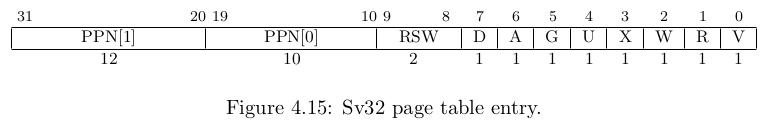
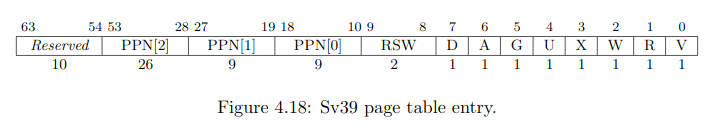
Minor fixes after reading up to page tables in RISC-V

Changed region(s): [[0.0, 0.0606, 0.9874, 0.5152], [0.2777, 0.7273, 0.7097, 0.9091], [0.864, 0.0909, 0.9257, 0.1212]]

diff --git a/README.md b/README.md
@@ -90,7 +90,7 @@ In een toekomstige sessie gaan we in detail bekijken waarom deze pagina daar gem
 Vandaag zijn we echter nog niet geinteresseerd in *wat* de trampolinepagina doet, wel in *hoe* de trampolinepagina gemapt wordt.
 
 Neem aan dat:
-1. De trampolinepagina in het geheugen gemapt staat in de frame met nummer 1234 (`PPN` = 1234).
+1. De trampolinepagina in het geheugen staat in het frame met nummer 1234 (`PPN` = 1234).
 2. Het virtuele adres `MAXVA-PGSIZE` (0x3ffffff000) moet verwijzen naar de eerste byte van deze trampolinepagina.
    
 Je moet nu, als besturingssysteem, ervoor zorgen dat wanneer het nieuwe proces `MAXVA-PGZISE` probeert te dereferencen, de RISC-V hardware dit kan vertalen naar de eerste byte van frame 1234.
@@ -106,7 +106,7 @@ Je moet nu, als besturingssysteem, ervoor zorgen dat wanneer het nieuwe proces `
 ## Page tables in xv6 en RISC-V
 
 In xv6 worden pagina's gemapt met behulp van de functie `mappages`.
-Dit is de definitie van deze functie:
+Dit is de declaratie van deze functie:
 
 ```c
 // Create PTEs for virtual addresses starting at va that refer to
@@ -123,7 +123,7 @@ mappages(pagetable_t pagetable, uint64 va, uint64 size, uint64 pa, int perm);
 
 Stel dat je de trampolinepagina zou moeten mappen met behulp van de functie [`mappages`][mappages].
 
-  * Welke waarden zou je toekennen aan de parameters `va` en `size`?
+  * Welke waarden zou je toekennen aan de parameters `va`, `size` en `pa`?
 
 ## Structuur page table
 
@@ -133,12 +133,12 @@ Page tables volgen een zeer specifieke structuur waarin elke bit een eigen betek
 
 Een page table kan je in het geheugen telkens terugvinden in het begin van een frame.
 Elke page table bestaat uitsluitend uit 512 page table entries (PTE).
-Een page table entry is niets anders dan een lange bitstring (32 bits) waarbij elke bit (of groep van bits) een eigen betekenis heeft.
+Een page table entry is niets anders dan een lange bitstring (64 bits) waarbij elke bit (of groep van bits) een eigen betekenis heeft.
 
 Beantwoordt de volgende vragen:
 
-* We weten dat een page table 512 entries heeft en we weten dat elke entry 32 bit groot is. Hoe groot is een volledige page table?
-* We weten dat we een offset van 12 bit gebruiken om een byte in een frame of pagina te addresseren. Hoe groot zijn pagina's of frames in Sv32?
+* We weten dat een page table 512 entries heeft en we weten dat elke entry 64 bit groot is. Hoe groot is een volledige page table?
+* We weten dat we een offset van 12 bit gebruiken om een byte in een frame of pagina te addresseren. Hoe groot zijn pagina's of frames in Sv39?
 * We weten dat een page table geplaatst wordt aan de start van een frame. Past een page table in één enkele frame?
 
 
@@ -151,7 +151,7 @@ Bovenstaande figuur geeft de bit-layout weer van zo'n page table entry.
 
 Laten we de verschillende bits van een page table entry verder bespreken:
 
-* `PPN`: Bits 10 - 31 zijn de 21 bits die naar een frame verwijzen. Ze bevatten dus het frame nummer (*physical page number*, PPN)
+* `PPN`: Bits 10 - 53 zijn de 44 bits die naar een frame verwijzen. Ze bevatten dus het frame nummer (*physical page number*, PPN)
 * `U`: Bit 4 is de user bit. Een pagina kan enkel in user-mode gebruikt worden indien de `U`-bit actief is.
 * `X`: Bit 3 is de executable bit. Indien een pagina code bevat kan deze enkel uitgevoerd worden indien de `X`-bit van deze pagina actief is.
 * `W`: Bit 2 is de writeable bit. Data kan enkel naar een pagina geschreven worden indien `W` actief is.
